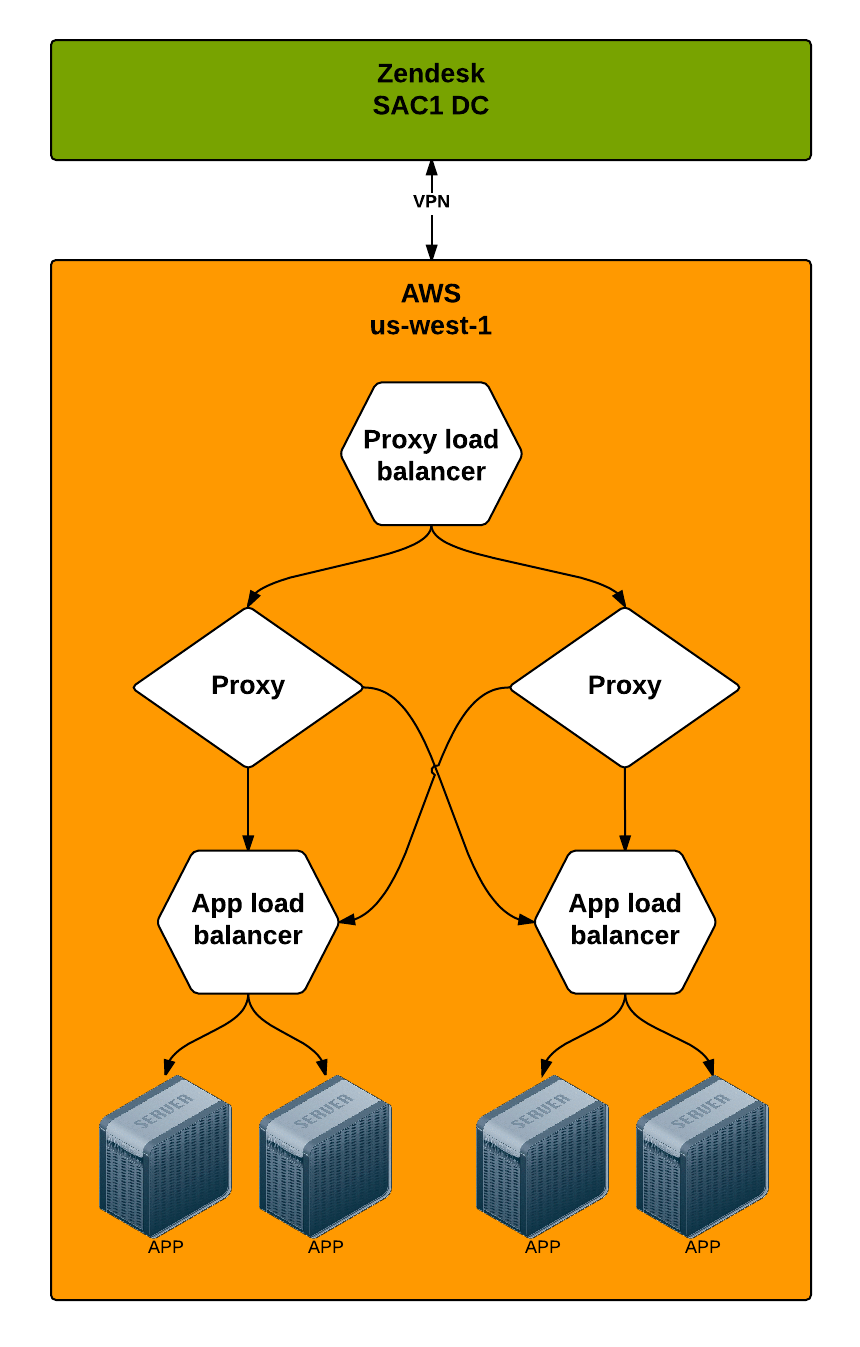
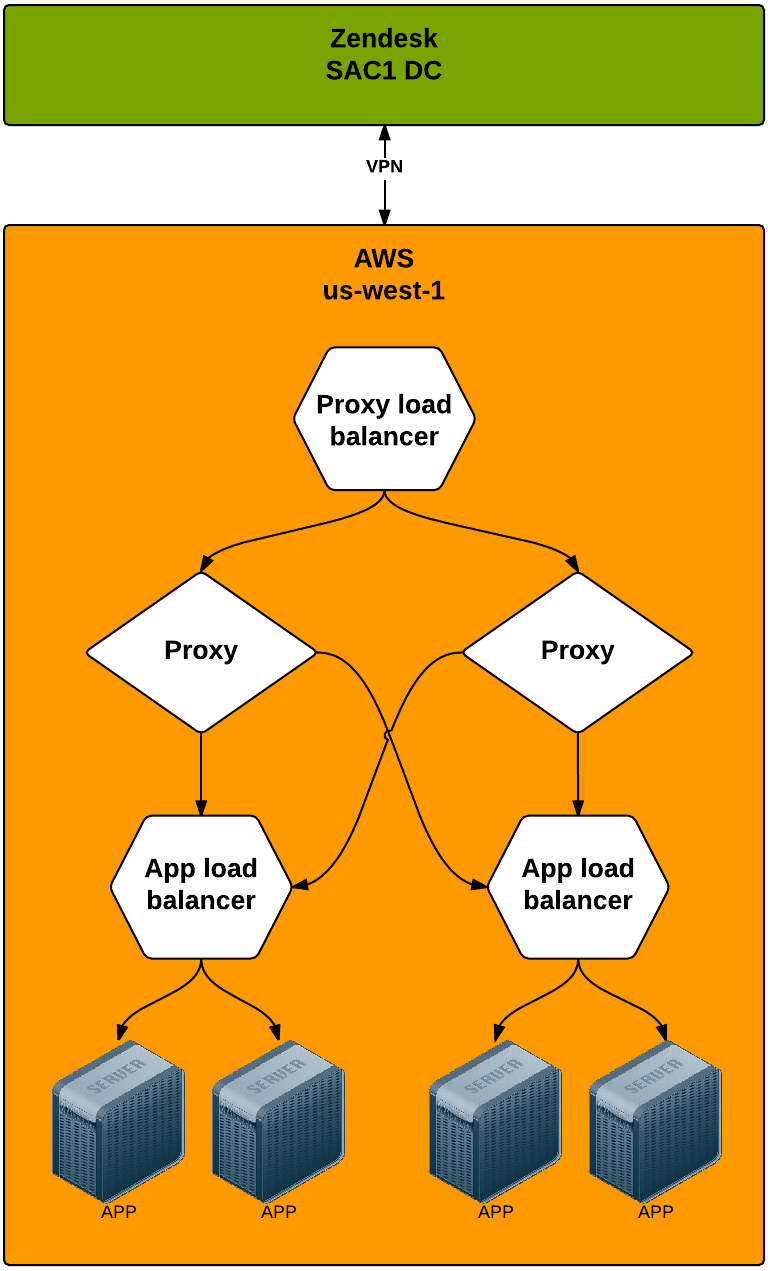
checkpoint

diff --git a/index.html b/index.html
@@ -1,7 +1,7 @@
 <!DOCTYPE html>
 <html>
   <head>
-    <title>Predicting Customer Satisfaction): Using Pacman & Crystal Ball</title>
+    <title>Predicting Customer Satisfaction: With The Prediction App</title>
     <meta charset="utf-8">
     <link rel="stylesheet" href="./css/default.css">
     <link rel="stylesheet" href="./css/twemoji-awesome.css">
@@ -13,7 +13,14 @@ name: main
 class: center, middle
 
 # Predicting Customer Satisfaction
-## Using Pacman & Crystal Ball
+## With The Prediction App
+<br/>
+### Ash McKenzie
+#### APAC Tech Lead DevOps Engineer
+
+???
+
+* Hello everyone, I'm Ash from the Melbourne Ops team
 
 ---
 
@@ -25,6 +32,10 @@ class: center, middle
 ### Prediction App
 ### Infrastructure
 
+???
+
+* We're going to cover the following topics
+
 ---
 
 layout: false
@@ -33,6 +44,10 @@ name: csat
 background-image: url(./images/scratching-head.jpg)
 
 # CSAT?
+
+???
+
+* Most of you are probably thinking 'what on earth is CSAT?'
 
 ---
 
@@ -58,6 +73,10 @@ background-image: url(./images/confused-donkey.jpg)
 
 # Pacman?
 
+???
+
+* Pacman?  What's this all about?
+
 ---
 
 layout: true
@@ -70,6 +89,7 @@ class: topic-template
 * Background service written in Clojure
 * Consumes ticket updates via Maxwell (Kafka)
 * Creates background jobs that are sent to Crystal Ball
+* Gets it's name because it gobbles data, just like Pacman <i class="twa twa-smile"></i>
 
 ---
 
@@ -79,6 +99,10 @@ name: crystal-ball
 background-image: url(./images/monkey-scratching-head.jpg)
 
 # Crystal Ball?
+
+???
+
+* Crystal Ball?  Are we dabbling in black arts now?
 
 ---
 
@@ -93,6 +117,10 @@ class: topic-template
 * Uses machine learning to create a data model for a customer
 * Generates a CSAT prediction for a given ticket update against the customers data model
 
+???
+
+* It's a rather apt name!
+
 ---
 
 layout: false
@@ -101,6 +129,10 @@ name: prediction-app
 background-image: url(./images/confused-baby.jpg)
 
 # Prediction App?
+
+???
+
+* Prediction App?  OK, you can probably guess what this is all about :)
 
 ---
 
@@ -115,12 +147,26 @@ name: csat-flow
 
 <img src="./images/csat-flow.png" />
 
+???
+
+* The Prediction App is the name given to Pacman & Crystal Ball collectively
+* Here you can see how all the pieces talk to each other
+* It starts with a ticket update within Classic
+* The ticket update is observed by Maxwell (which uses Kafka)
+* Pacman is listening to a particular topic in Maxwell and creates a background job bound for Crystal Ball
+* Crystal Ball then process the request and returns a CSAT score
+* The CSAT score is then written to the ticket via the Classic API
+
 ---
 
 layout: false
 class: center, middle
 
 # Infrastructure
+
+???
+
+* Not only is the application really intersting and unique, but so is the infrastructure setup
 
 ---
 
@@ -144,6 +190,33 @@ class: center
 name: satisfaction-app
 
 <img src="./images/satisfaction-app.png" />
+
+???
+
+* Here is an architectural diagram showing the proxy load balancer, proxies, app load balancers and app servers
+* You can see all the AWS infrastructure in orange, in this diagram, married to the SAC1 data center a VPN tunnel
+* The identical setup exists for infrastructure in the eu-central-1 AWS region which is married to the DUB1 data center, also via VPN tunnel
+* The main objective of this architecture is to ensure that a customers data model is only loaded into memory *once*
+* The second object of this architecture is not only to ensure the customers data model is only loaded once, but to also ensure durability in the event one or more of the app nodes are degraded
+
+---
+
+layout: true
+class: topic-template
+
+# Questions?
+
+---
+
+name: questions
+
+## Questions?
+
+[amckenzie@zendesk.com](mailto:amckenzie@zendesk.com)
+
+OR
+
+[bunyip@zendesk.com](mailto:bunyip@zendesk.com)
 
 ---
 

diff --git a/css/default.css b/css/default.css
@@ -11,7 +11,7 @@ body {
   font-size: 2em;
   font-family: 'Droid Serif';
 }
-h1, h2, h3 {
+h1, h2, h3, h4 {
   font-family: "Bebas Neue";
   font-weight: normal;
   letter-spacing: 4px;
@@ -84,6 +84,14 @@ p.image-attribution {
   margin-bottom: 0.4em;
 }
 
+#slide-main h3 {
+  margin-bottom: 0;
+}
+
+#slide-main h4 {
+  margin-top: 0.4em;
+}
+
 #slide-me h1 {
   font-size: 5em !important;
   margin-bottom: 0.4em;
@@ -100,8 +108,17 @@ p.image-attribution {
   width: 100%;
 }
 
+#slide-satisfaction-app p {
+  margin: 0;
+  padding: 0;
+}
+
 #slide-satisfaction-app img {
-  width: 50%;
+  width: 48%;
+}
+
+#slide-questions p {
+  text-align: center;
 }
 
 #slide-thanks h3 {
